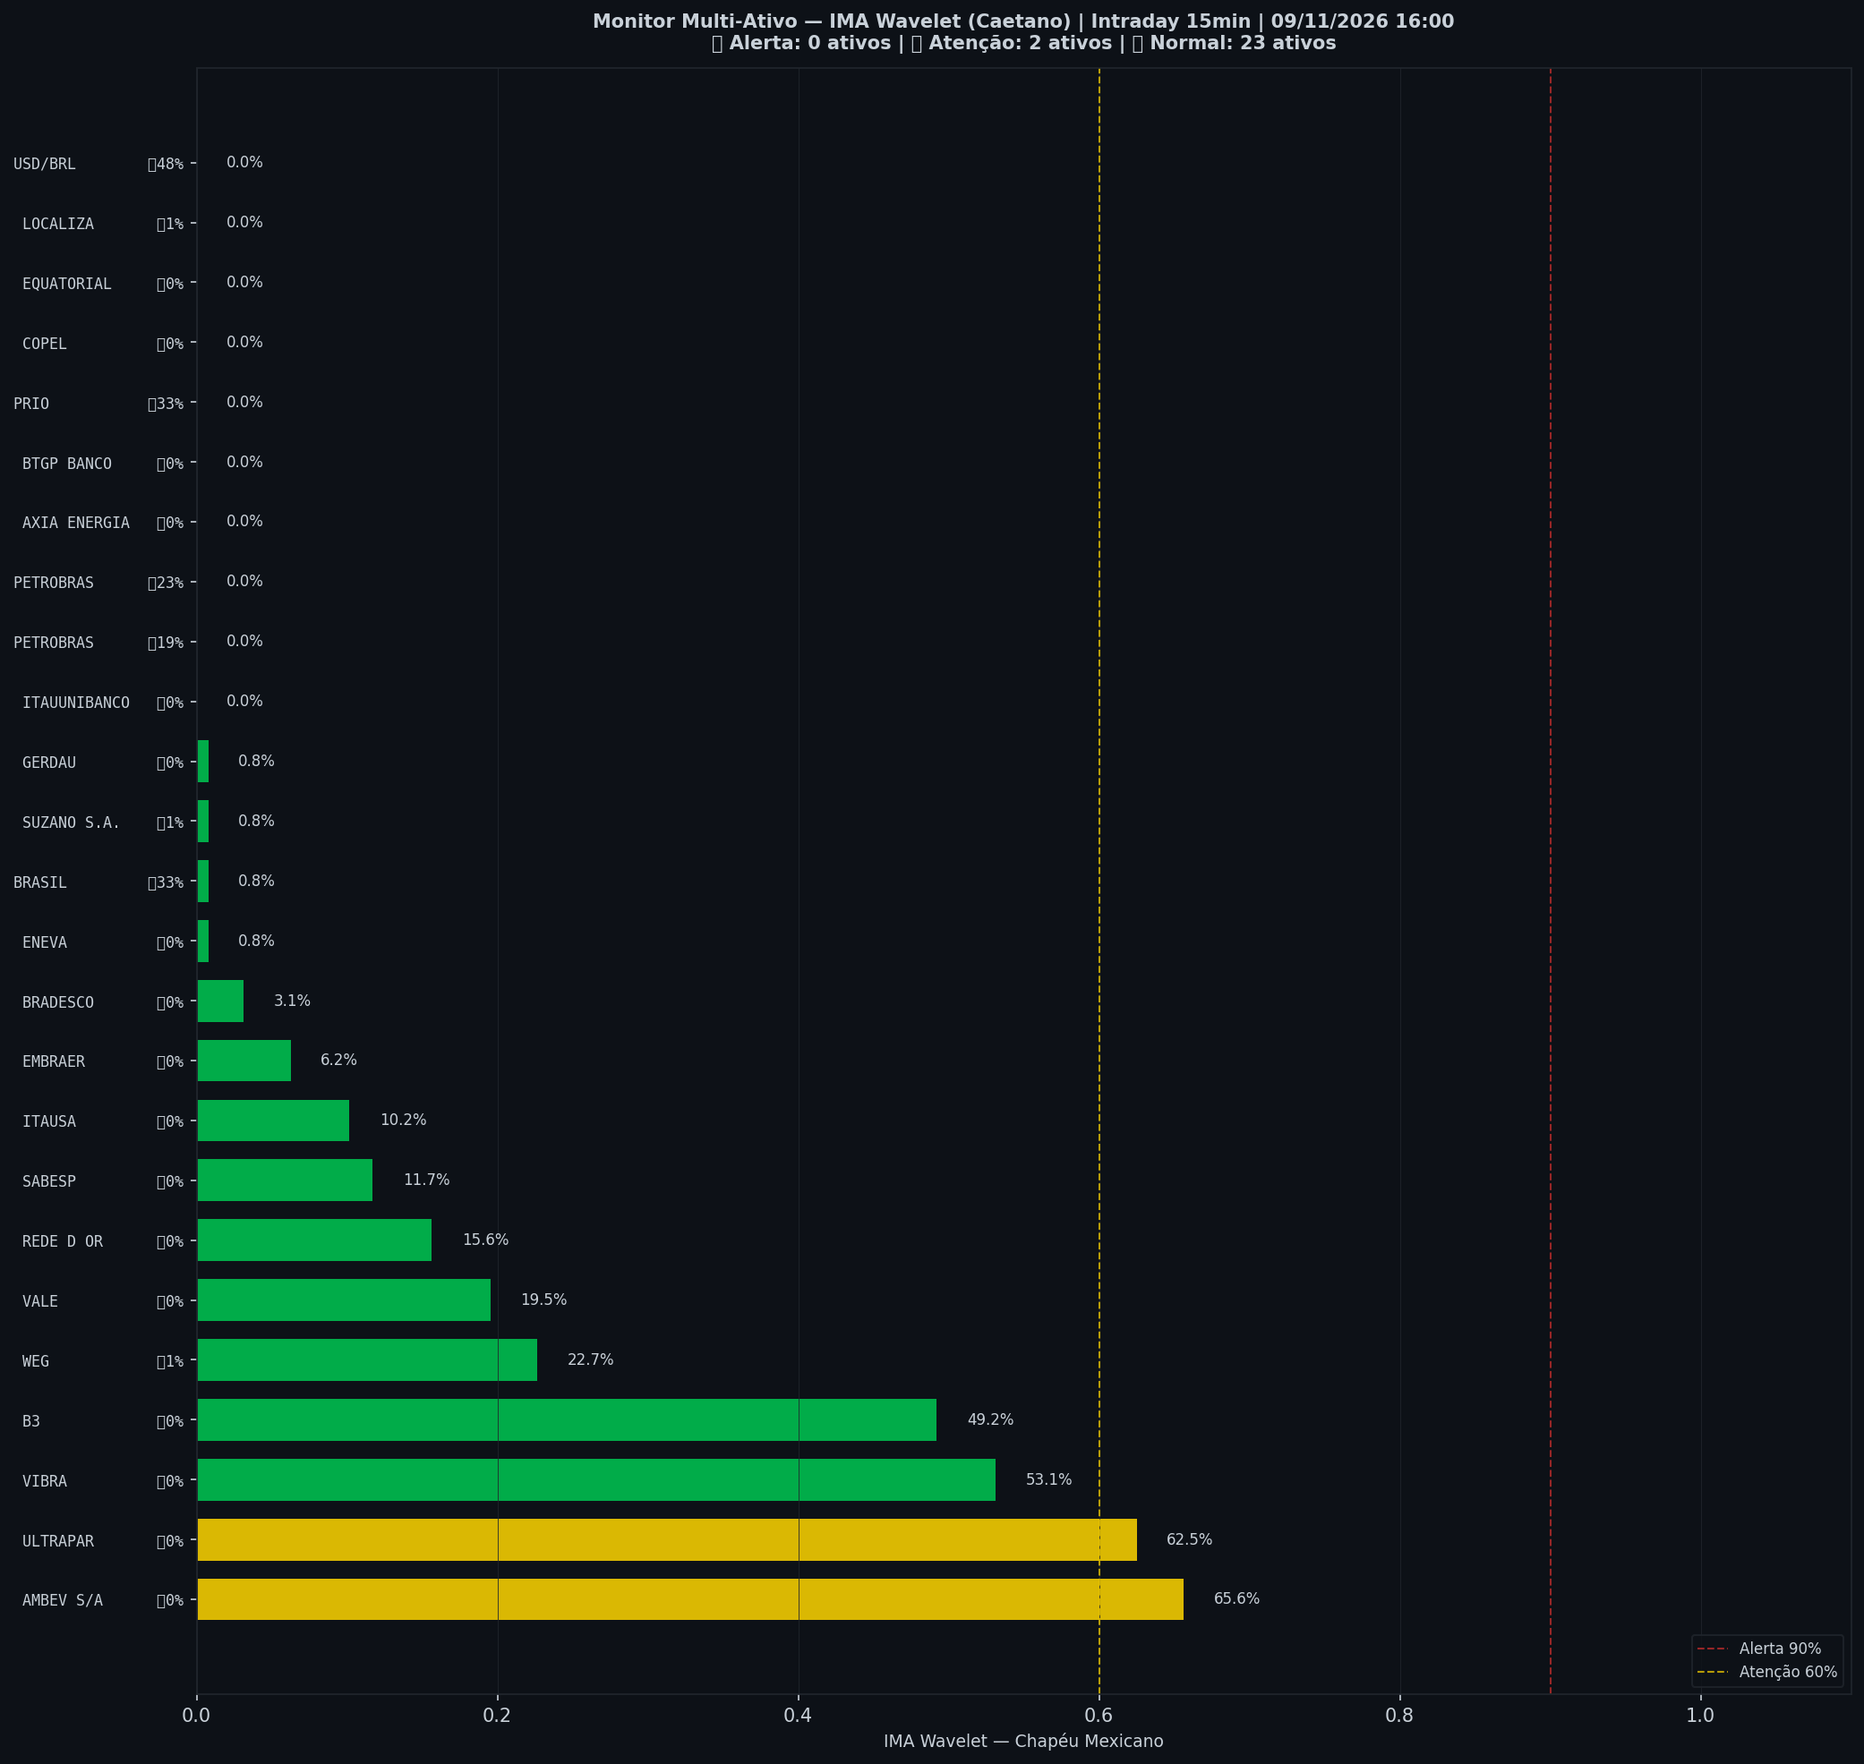
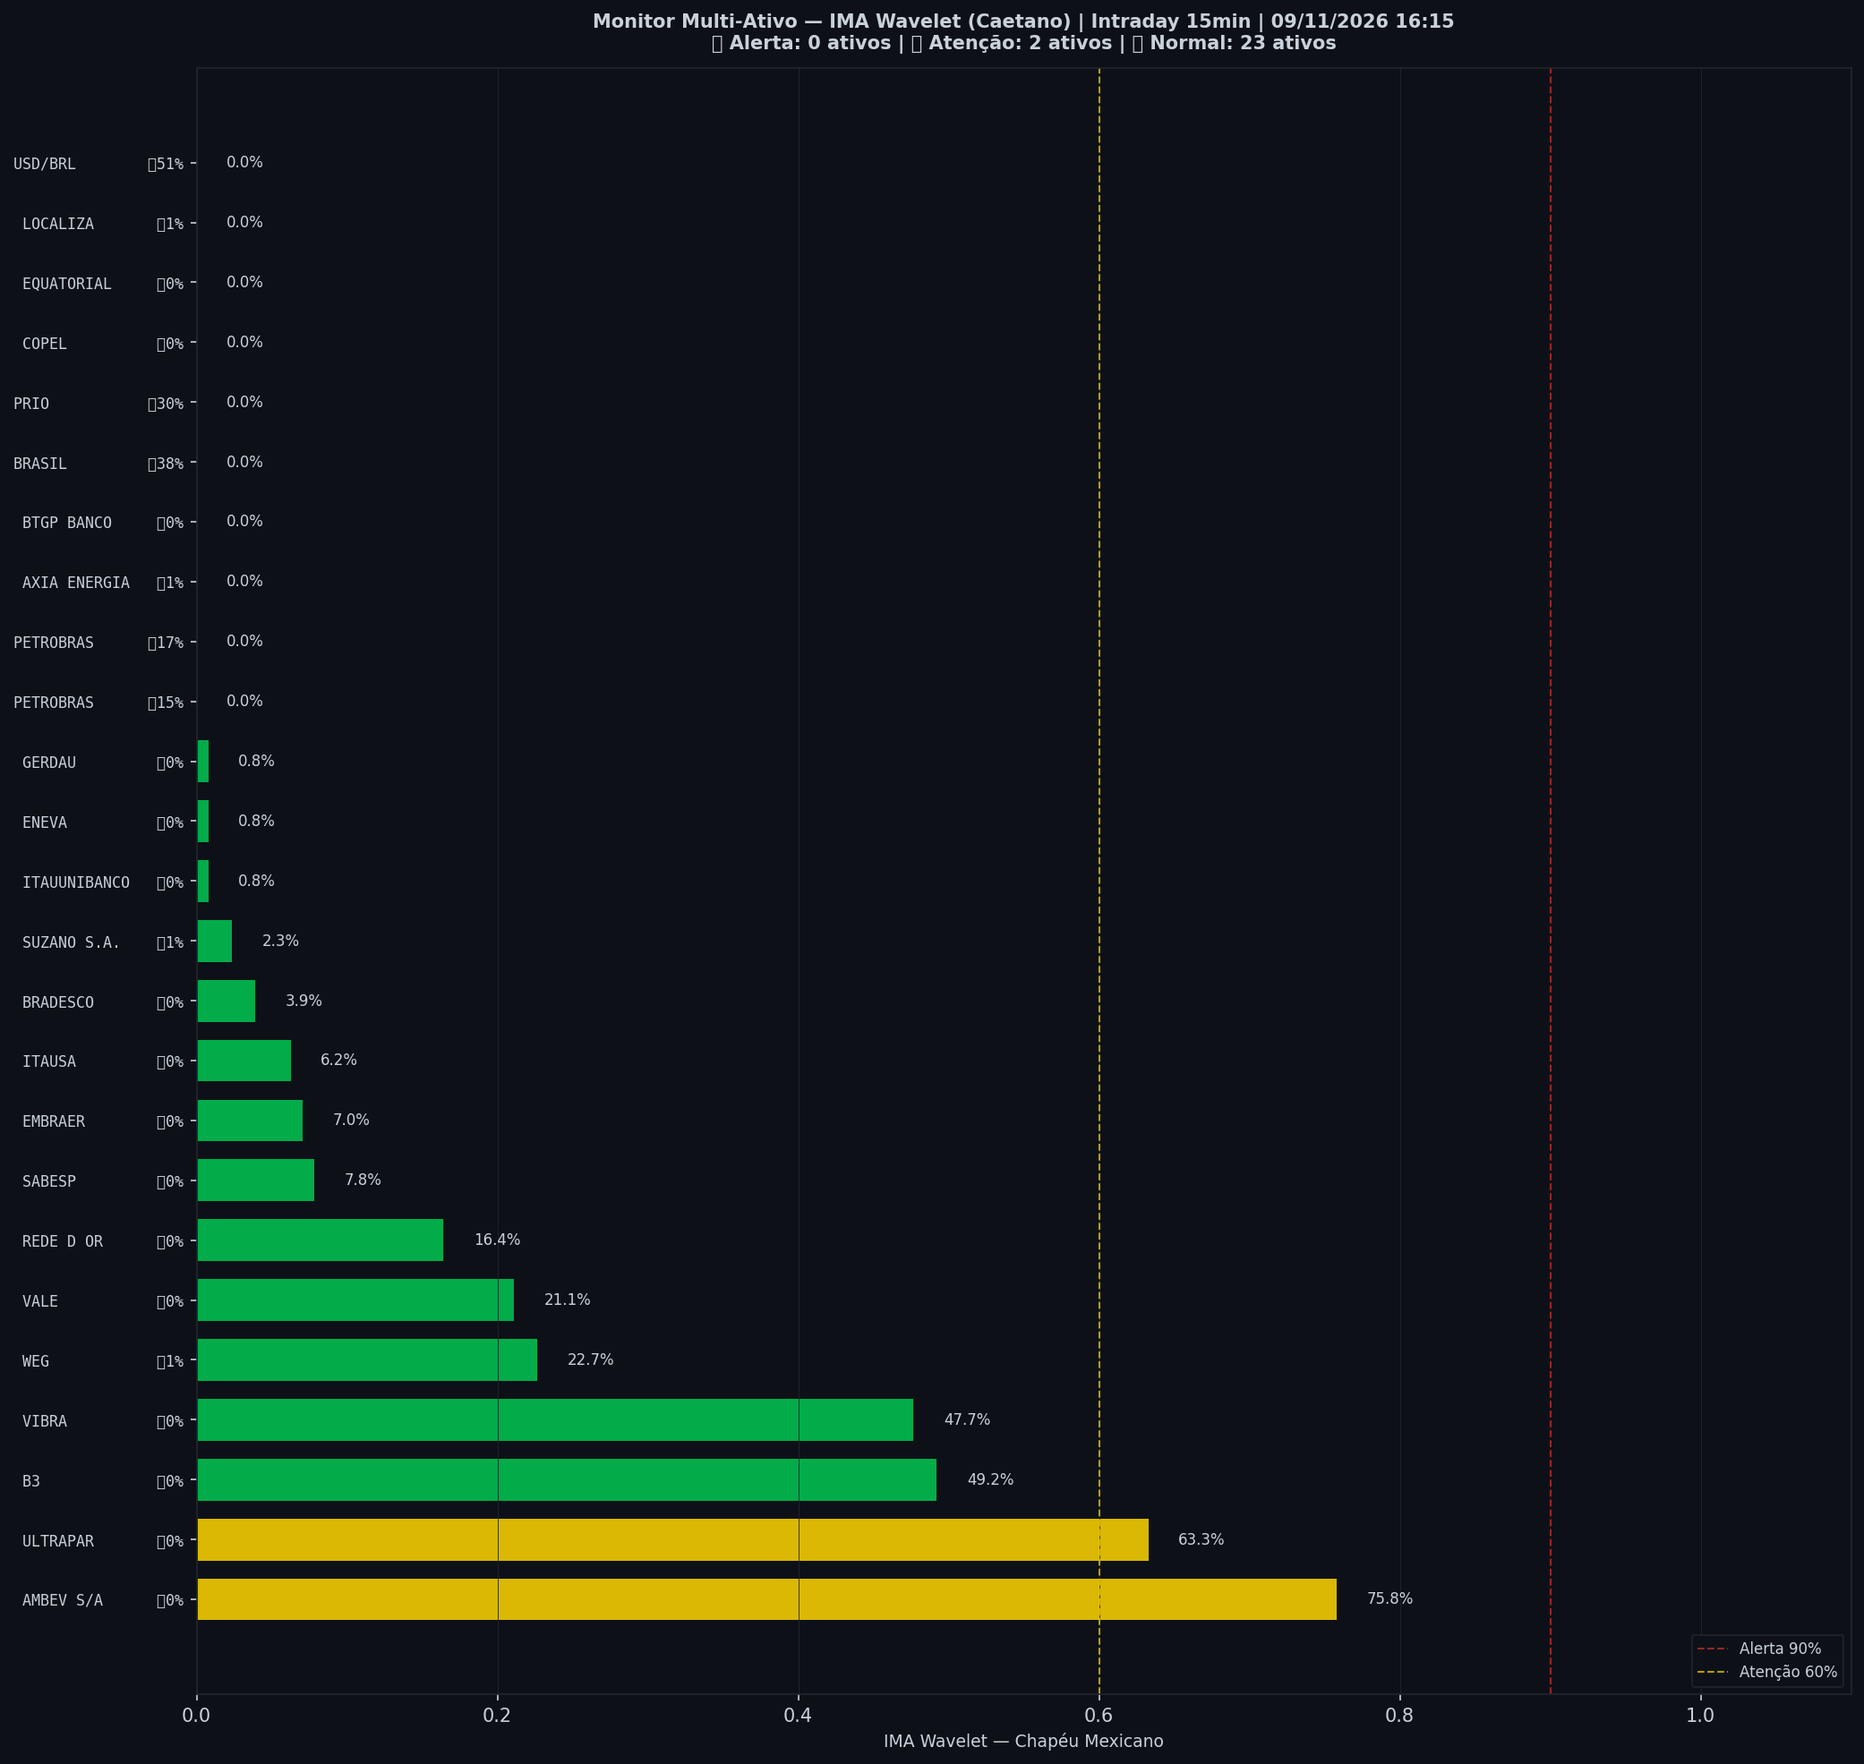
🤖 Auto: Sinal 09/11/2026 16:15

diff --git a/content/intraday/2026-11-09.md b/content/intraday/2026-11-09.md
@@ -1,13 +1,13 @@
 ---
-title: "🔴 Intraday 09/11/2026 15:45 BRT — VERMELHO"
+title: "🔴 Intraday 09/11/2026 16:00 BRT — VERMELHO"
 date: 2026-11-09
 tags: [intraday]
 ---
 
-> [!danger] Onde o mercado está agora (09/11 15:45, candles de 15 min): **🔴 Euforia extrema**
+> [!warning] Onde o mercado está agora (09/11 16:00, candles de 15 min): **🟡 Esticado para cima**
 > `Pânico ◀───────────────────●─▶ Euforia`
 >
-> O Ibovespa subiu muito acima da sua tendência. Historicamente, foi a fase com maior risco de correção.
+> O Ibovespa subiu mais rápido que o normal e está acima da sua faixa habitual.
 > No gráfico diário: 🔪 Queda forte em curso.
 >
 > *Leitura educacional baseada em 26 anos de dados. Não é recomendação de investimento.*
@@ -20,26 +20,26 @@ tags: [intraday]
 > | 📍 **Sinais** | hoje: nenhum sinal | [abrir](sinais-topo-fundo/) |
 > | 🧪 **Placar ao vivo** | 1 operação(ões), 0 com lucro, soma -0,8% | [abrir](operacoes/) |
 
-> [!danger] IMA Intraday · 15 min (09/11 15:45): 🔴 **VERMELHO** — Risco 91% · ▼ -1 p.p. vs leitura anterior
+> [!danger] IMA Intraday · 15 min (09/11 16:00): 🔴 **VERMELHO** — Risco 88% · ▼ -3 p.p. vs leitura anterior
 > `██████████████████░░`
 > ALERTA — esticamento extremo (ζ ≥ 0,90): risco de reversão.
 
 
-> [!danger] 🚨 Nível EXTREMO agora — IMA Intraday · 15 min (09/11 15:45)
-> - 🔴 **ζ Topo 91%** — preço esticado acima da tendência (risco de reversão)
+> [!warning] ⚠ Nível alto agora — IMA Intraday · 15 min (09/11 16:00)
+> - 🟡 **ζ Topo 88%** — preço esticado acima da tendência (risco de reversão)
 
 > [!note] 🧭 IMA Diário · viés (06/11): 🔪 **Queda forte em curso**
 > 📚 historicamente, quedas assim costumaram continuar um pouco antes de virar
 >
 > *Leitura educacional baseada em 26 anos de dados, não recomendação. [Como usar](../metodologia/crise#3-como-usar-na-prática).*
 
-| Indicador — IMA Intraday · 15 min (09/11 15:45) | Valor |
+| Indicador — IMA Intraday · 15 min (09/11 16:00) | Valor |
 |---|---|
-| 🔴 ζ Topo — preço esticado acima da tendência | 🔴 **91%** |
+| 🔴 ζ Topo — preço esticado acima da tendência | 🟡 **88%** |
 | 🔵 ζ Fundo — preço esticado abaixo da tendência | 0% |
 | 🫧 LPPL bolha — alta super-exponencial (risco de crash) | 0% |
 | 🫧 LPPL antibolha — queda super-exponencial (risco de repique) | 0% |
-| 📊 Ibovespa | 171.209 pts |
+| 📊 Ibovespa | 171.175 pts |
 
 ![Gráfico do sinal](../graficos/sinal_intraday.png)
 
@@ -47,6 +47,7 @@ tags: [intraday]
 
 | Data | Zona | Evento | Risco | ζ Topo | ζ Fundo | LPPL |
 |---|---|---|---|---|---|---|
+| 2026-11-09 16:00 | 🔴 VERMELHO |  | 🟡 **88%** | 🟡 **88%** | 0% | 0% |
 | 2026-11-09 15:45 | 🔴 VERMELHO |  | 🔴 **91%** | 🔴 **91%** | 0% | 0% |
 | 2026-11-09 15:30 | 🔴 VERMELHO |  | 🔴 **91%** | 🔴 **91%** | 1% | 0% |
 | 2026-11-09 15:15 | 🔴 VERMELHO |  | 🔴 **95%** | 🔴 **95%** | 1% | 0% |
@@ -76,7 +77,6 @@ tags: [intraday]
 | 2026-11-06 17:30 | 🟢 VERDE |  | **2%** | 2% | 0% | 0% |
 | 2026-11-06 17:15 | 🟢 VERDE |  | **3%** | 3% | 0% | 0% |
 | 2026-11-06 17:00 | 🟢 VERDE |  | **2%** | 2% | 0% | 0% |
-| 2026-11-06 16:45 | 🟢 VERDE |  | **6%** | 6% | 0% | 0% |
 
 <small>Destaques: 🟡 ≥ 60% · 🔴 ≥ 90% (Risco e ζ Topo) · 🔵 ≥ 60% · 🔪 ≥ 90% (ζ Fundo) · 🫧 ≥ 30% · 🫧🔴 ≥ 50% (LPPL)</small>
 
@@ -85,32 +85,32 @@ tags: [intraday]
 **8% dos ativos em tensão** (0🔴 3🟡) · **0 com ζ Fundo alto** — quanto mais ativos disparam juntos, mais confiável o sinal.
 
 > [!warning] Em destaque no multi-ativo
-> 🟡 **AMBEV S/A** ζ Topo 66% · 🟡 **ULTRAPAR** ζ Topo 62%
+> 🟡 **AMBEV S/A** ζ Topo 76% · 🟡 **ULTRAPAR** ζ Topo 63%
 
 | Zona | Ativo | Setor | ζ Topo | ζ Fundo |
 |---|---|---|---|---|
-| 🟡 | **AMBEV S/A** | Consumo | 🟡 **65.6%** | 0.0% |
-| 🟡 | **ULTRAPAR** | Outros | 🟡 **62.5%** | 0.0% |
-| 🟡 | **VIBRA** | Energia | 53.1% | 0.0% |
+| 🟡 | **AMBEV S/A** | Consumo | 🟡 **75.8%** | 0.0% |
+| 🟡 | **ULTRAPAR** | Outros | 🟡 **63.3%** | 0.0% |
+| 🟢 | **USD/BRL** | Câmbio | 0.0% | 50.8% |
 | 🟢 | **B3** | Financeiro | 49.2% | 0.0% |
-| 🟢 | **USD/BRL** | Câmbio | 0.0% | 48.4% |
-| 🟢 | **BRASIL** | Financeiro | 0.8% | 32.8% |
-| 🟢 | **PRIO** | Petróleo | 0.0% | 32.8% |
-| 🟢 | **PETROBRAS** | Petróleo | 0.0% | 22.7% |
+| 🟡 | **VIBRA** | Energia | 47.7% | 0.0% |
+| 🟢 | **BRASIL** | Financeiro | 0.0% | 38.3% |
+| 🟢 | **PRIO** | Petróleo | 0.0% | 29.7% |
 | 🟢 | **WEG** | Industrial | 22.7% | 0.8% |
-| 🟢 | **VALE** | Mineração | 19.5% | 0.0% |
-| 🟢 | **PETROBRAS** | Petróleo | 0.0% | 18.8% |
-| 🟢 | **REDE D OR** | Saúde | 15.6% | 0.0% |
-| 🟢 | **SABESP** | Saneamento | 11.7% | 0.0% |
-| 🟢 | **ITAUSA** | Financeiro | 10.2% | 0.0% |
-| 🟢 | **EMBRAER** | Outros | 6.2% | 0.0% |
-| 🟢 | **BRADESCO** | Financeiro | 3.1% | 0.0% |
+| 🟢 | **VALE** | Mineração | 21.1% | 0.0% |
+| 🟢 | **PETROBRAS** | Petróleo | 0.0% | 17.2% |
+| 🟢 | **REDE D OR** | Saúde | 16.4% | 0.0% |
+| 🟢 | **PETROBRAS** | Petróleo | 0.0% | 14.8% |
+| 🟢 | **SABESP** | Saneamento | 7.8% | 0.0% |
+| 🟢 | **EMBRAER** | Outros | 7.0% | 0.0% |
+| 🟢 | **ITAUSA** | Financeiro | 6.2% | 0.0% |
+| 🟢 | **BRADESCO** | Financeiro | 3.9% | 0.0% |
+| 🟢 | **SUZANO S.A.** | Papel/Celulose | 2.3% | 0.8% |
+| 🟢 | **ITAUUNIBANCO** | Financeiro | 0.8% | 0.0% |
+| 🟢 | **AXIA ENERGIA** | Energia | 0.0% | 0.8% |
 | 🟢 | **ENEVA** | Energia | 0.8% | 0.0% |
-| 🟢 | **SUZANO S.A.** | Papel/Celulose | 0.8% | 0.8% |
 | 🟢 | **GERDAU** | Siderurgia | 0.8% | 0.0% |
 | 🟢 | **LOCALIZA** | Aluguel | 0.0% | 0.8% |
-| 🟢 | **ITAUUNIBANCO** | Financeiro | 0.0% | 0.0% |
-| 🟢 | **AXIA ENERGIA** | Energia | 0.0% | 0.0% |
 | 🟢 | **BTGP BANCO** | Financeiro | 0.0% | 0.0% |
 | 🟢 | **COPEL** | Energia | 0.0% | 0.0% |
 | 🟢 | **EQUATORIAL** | Energia | 0.0% | 0.0% |
@@ -119,7 +119,7 @@ tags: [intraday]
 
 ![Monitor multi-ativo](../graficos/multi_intraday.png)
 
-*Página atualizada em 09/11/2026 16:00 BRT (leitura da barra de 2026-11-09 15:45 BRT).*
+*Página atualizada em 09/11/2026 16:15 BRT (leitura da barra de 2026-11-09 16:00 BRT).*
 
 > [!warning] O que este indicador não faz
 > Medido em 5 anos de Ibovespa, o ζ **não antecipa** topos nem fundos: a capacidade de separar o que sobe do que cai ficou em 0,49–0,52, e 0,50 é moeda jogada ao ar. Ele descreve o estado de agora; não é aviso do que vem. As zonas verde/amarelo/vermelho continuam na página como descrição desse estado — **não as use como sinal de entrada ou saída**.

diff --git a/content/index.md b/content/index.md
@@ -6,24 +6,24 @@ tags: [home]
 
 **As ondas do mercado, explicadas.** Leitura do Ibovespa com estatística de 26 anos, baseada no trabalho de pesquisadores e traders reconhecidos e adaptada por Jarbas Daniel da Costa.
 
-*Última atualização: 09/11/2026 16:00 BRT · Intraday 15min*
+*Última atualização: 09/11/2026 16:15 BRT · Intraday 15min*
 
-> [!danger] Onde o mercado está agora (09/11 15:45, candles de 15 min): **🔴 Euforia extrema**
+> [!warning] Onde o mercado está agora (09/11 16:00, candles de 15 min): **🟡 Esticado para cima**
 > `Pânico ◀───────────────────●─▶ Euforia`
 >
-> O Ibovespa subiu muito acima da sua tendência. Historicamente, foi a fase com maior risco de correção.
+> O Ibovespa subiu mais rápido que o normal e está acima da sua faixa habitual.
 > No gráfico diário: 🔪 Queda forte em curso.
 >
 > *Leitura educacional baseada em 26 anos de dados. Não é recomendação de investimento.*
 
-> [!danger] 🚨 Nível EXTREMO agora — IMA Intraday · 15 min (09/11 15:45)
-> - 🔴 **ζ Topo 91%** — preço esticado acima da tendência (risco de reversão)
+> [!warning] ⚠ Nível alto agora — IMA Intraday · 15 min (09/11 16:00)
+> - 🟡 **ζ Topo 88%** — preço esticado acima da tendência (risco de reversão)
 
 ## Agora
 
 | Módulo | Agora | |
 |---|---|---|
-| 🌊 **Sinal IMA** | 🔴 VERMELHO · 🔴 euforia extrema · ζ Topo 🔴 **91%** | [relatório](intraday/2026-11-09) |
+| 🌊 **Sinal IMA** | 🔴 VERMELHO · 🟡 esticado para cima · ζ Topo 🟡 **88%** | [relatório](intraday/2026-11-09) |
 | 📈 **Tendência MME9** | Diário — fora<br>Semanal — fora | [abrir](operacoes/tendencia) |
 | 🎯 **Entradas do método** | ⏳ aguardando: Diário · Nadaraya, Diário · Semáforo N3 após ζ Fundo | [abrir](operacoes/entradas) |
 | 📍 **Sinais** | hoje: nenhum sinal | [abrir](sinais-topo-fundo/) |
@@ -52,18 +52,18 @@ tags: [home]
 > *Leitura educacional baseada em 26 anos de dados, não recomendação. [Como usar](metodologia/crise#3-como-usar-na-prática).*
 
 > [!info]- 🌊 Detalhes do Sinal IMA (indicadores e últimos 7 pregões)
-> > [!danger] IMA Intraday · 15 min (09/11 15:45): 🔴 **VERMELHO** — Risco 91% · ▼ -1 p.p. vs leitura anterior
+> > [!danger] IMA Intraday · 15 min (09/11 16:00): 🔴 **VERMELHO** — Risco 88% · ▼ -3 p.p. vs leitura anterior
 > > `██████████████████░░`
 > > ALERTA — esticamento extremo (ζ ≥ 0,90): risco de reversão.
 >
 >
-> | Indicador — IMA Intraday · 15 min (09/11 15:45) | Valor |
+> | Indicador — IMA Intraday · 15 min (09/11 16:00) | Valor |
 > |---|---|
-> | 🔴 ζ Topo — preço esticado acima da tendência | 🔴 **91%** |
+> | 🔴 ζ Topo — preço esticado acima da tendência | 🟡 **88%** |
 > | 🔵 ζ Fundo — preço esticado abaixo da tendência | 0% |
 > | 🫧 LPPL bolha — alta super-exponencial (risco de crash) | 0% |
 > | 🫧 LPPL antibolha — queda super-exponencial (risco de repique) | 0% |
-> | 📊 Ibovespa | 171.209 pts |
+> | 📊 Ibovespa | 171.175 pts |
 >
 > **Multi-ativo:** 8% em tensão (0🔴 3🟡 de 25 ativos)
 >
@@ -71,7 +71,7 @@ tags: [home]
 >
 > | Data | Zona | Risco | ζ Topo | ζ Fundo | LPPL |
 > |---|---|---|---|---|---|
-> | [09/11/2026](intraday/2026-11-09) | 🔴 VERMELHO | 🔴 **91%** | 🔴 **91%** | 0% | 0% |
+> | [09/11/2026](intraday/2026-11-09) | 🔴 VERMELHO | 🟡 **88%** | 🟡 **88%** | 0% | 0% |
 > | [06/11/2026](intraday/2026-11-06) | 🟢 VERDE | **2%** | 2% | 0% | 0% |
 >
 > <small>Destaques: 🟡 ≥ 60% · 🔴 ≥ 90% (Risco e ζ Topo) · 🔵 ≥ 60% · 🔪 ≥ 90% (ζ Fundo) · 🫧 ≥ 30% · 🫧🔴 ≥ 50% (LPPL)</small>

diff --git a/content/operacoes/entradas.md b/content/operacoes/entradas.md
@@ -31,7 +31,7 @@ description: "Compra depois de um sinal de fundo: Nadaraya no diário, semáforo
 > | Diário · Semáforo N3 após ζ Fundo | 07/07/26 a 172.021 | 10/08/26 a 172.021 | **+0,0%** | stop no preço de entrada |
 > | H4 · Semáforo N2 | 12/06/26 14h a 171.134 | 15/06/26 14h a 171.134 | **+0,0%** | stop no preço de entrada |
 >
-> <small>Atualizado 06/11 19:00 · checado no pregão às 16:00. Nota: ✅ passou no teste fora da amostra (walk-forward 2008–2026) · 🧪 em teste (H4, com aviso no Telegram) ou em observação (ζ, sem aviso) · 🧪 na tabela = operação do teste ao vivo.</small>
+> <small>Atualizado 06/11 19:00 · checado no pregão às 16:15. Nota: ✅ passou no teste fora da amostra (walk-forward 2008–2026) · 🧪 em teste (H4, com aviso no Telegram) ou em observação (ζ, sem aviso) · 🧪 na tabela = operação do teste ao vivo.</small>
 >
 > *Regras: depois de um sinal de fundo, o Diário entra quando o Nadaraya vira para cima; o Semanal e o H4 entram quando um fundo do semáforo fica fixo. Stop e saída de cada regra na [metodologia](metodologia/regras-de-operacao#entradas-do-método). Nenhuma regra de venda passou no teste. Os números do histórico têm viés de escolha (overfitting); o placar ao vivo é o que vale. Leitura educacional do método, não recomendação.*
 

diff --git a/content/historico.md b/content/historico.md
@@ -5,7 +5,7 @@ tags: [historico]
 
 # 📜 Histórico de leituras (v5)
 
-**2.234 leituras** desde 2026-07-03. Na página ficam os últimos 3 dias leitura por leitura e o resumo de cada dia anterior; o registro inteiro está no arquivo para baixar.
+**2.235 leituras** desde 2026-07-03. Na página ficam os últimos 3 dias leitura por leitura e o resumo de cada dia anterior; o registro inteiro está no arquivo para baixar.
 
 [**Baixar o histórico completo**](historico-completo.csv) (98 KB · abre no Excel e no LibreOffice)
 
@@ -16,6 +16,7 @@ tags: [historico]
 
 | Data | Modo | Zona | Risco | IMA | LPPL |
 |---|---|---|---|---|---|
+| 2026-11-09 16:00 | intraday | 🔴 VERMELHO | 🟡 **88%** | 🟡 **88%** | 0% |
 | 2026-11-09 15:45 | intraday | 🔴 VERMELHO | 🔴 **91%** | 🔴 **91%** | 0% |
 | 2026-11-09 15:30 | intraday | 🔴 VERMELHO | 🔴 **91%** | 🔴 **91%** | 0% |
 | 2026-11-09 15:15 | intraday | 🔴 VERMELHO | 🔴 **95%** | 🔴 **95%** | 0% |

diff --git a/content/operacoes/ranking.md b/content/operacoes/ranking.md
@@ -5,7 +5,7 @@ tags: [operacoes]
 description: "As regras de compra do site ordenadas pelo resultado, com treino, teste e placar ao vivo"
 ---
 
-*Atualizado 09/11/2026 16:00 · histórico simulado com as regras congeladas em 23/10/2026 + placar ao vivo.*
+*Atualizado 09/11/2026 16:15 · histórico simulado com as regras congeladas em 23/10/2026 + placar ao vivo.*
 
 As regras de compra do site, **da que mais rendeu para a que menos rendeu**. O resultado é por operação, no índice à vista, sem custos e sem juros compostos (a soma é só a soma das operações). **Treino** = entradas de 2001 a 2013 e **teste** = 2014 em diante: uma regra só é confiável se ganhou nos dois. O único resultado sem nenhum ajuste ao histórico é o **placar ao vivo**.
 

diff --git a/content/linha-do-tempo/index.md b/content/linha-do-tempo/index.md
@@ -5,7 +5,7 @@ description: "Todo sinal, ordem, stop e aviso do Pêndulo de Mercado, do mais re
 tags: [eventos]
 ---
 
-*Atualizada 09/11/2026 16:00 BRT · a cada 15 min no pregão e às 19h.*
+*Atualizada 09/11/2026 16:15 BRT · a cada 15 min no pregão e às 19h.*
 
 Tudo o que o sistema fez ou detectou, **do mais recente para o mais antigo**: sinais de topo e fundo, ordens de compra e de venda armadas, compras, vendas, stops, avisos de 🚨 preço perto do nível e mudanças do Sinal IMA. Os **últimos 7 dias** ficam abertos; o resto, por **ano → mês → dia**.
 
